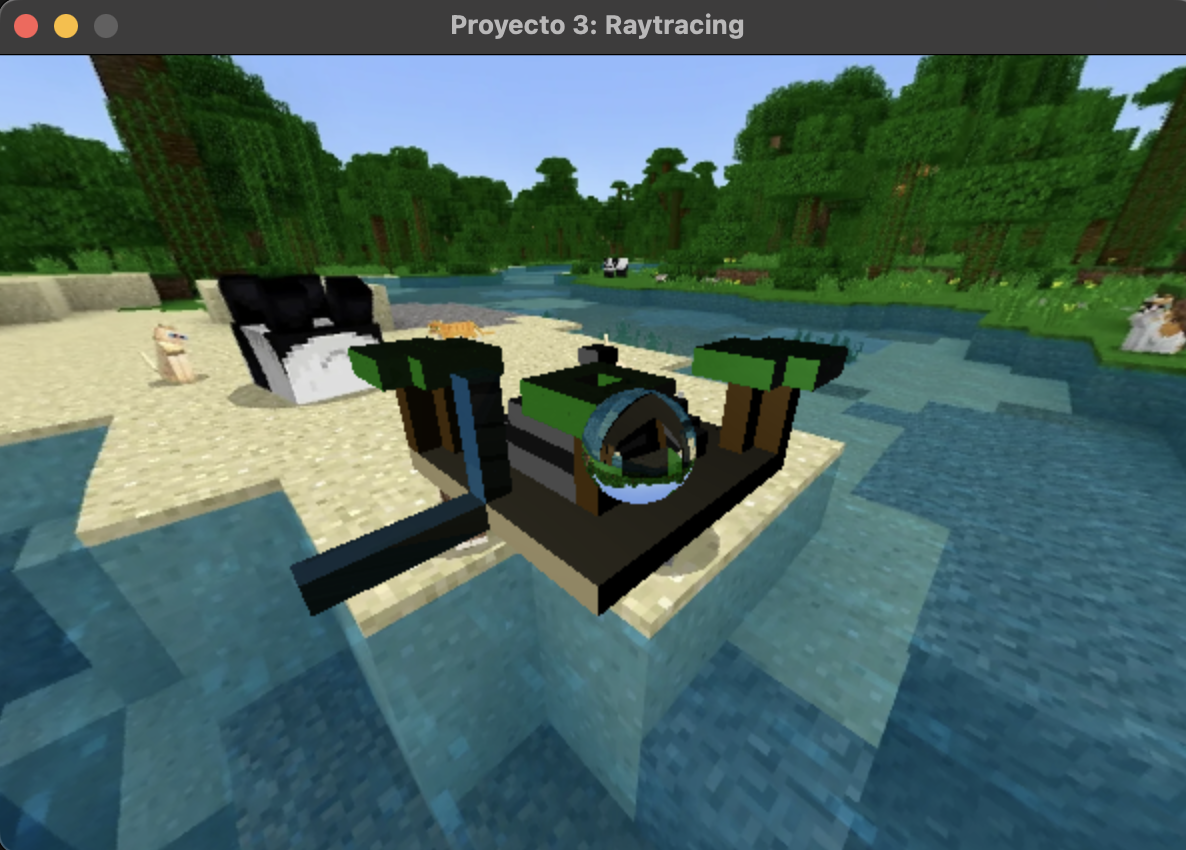
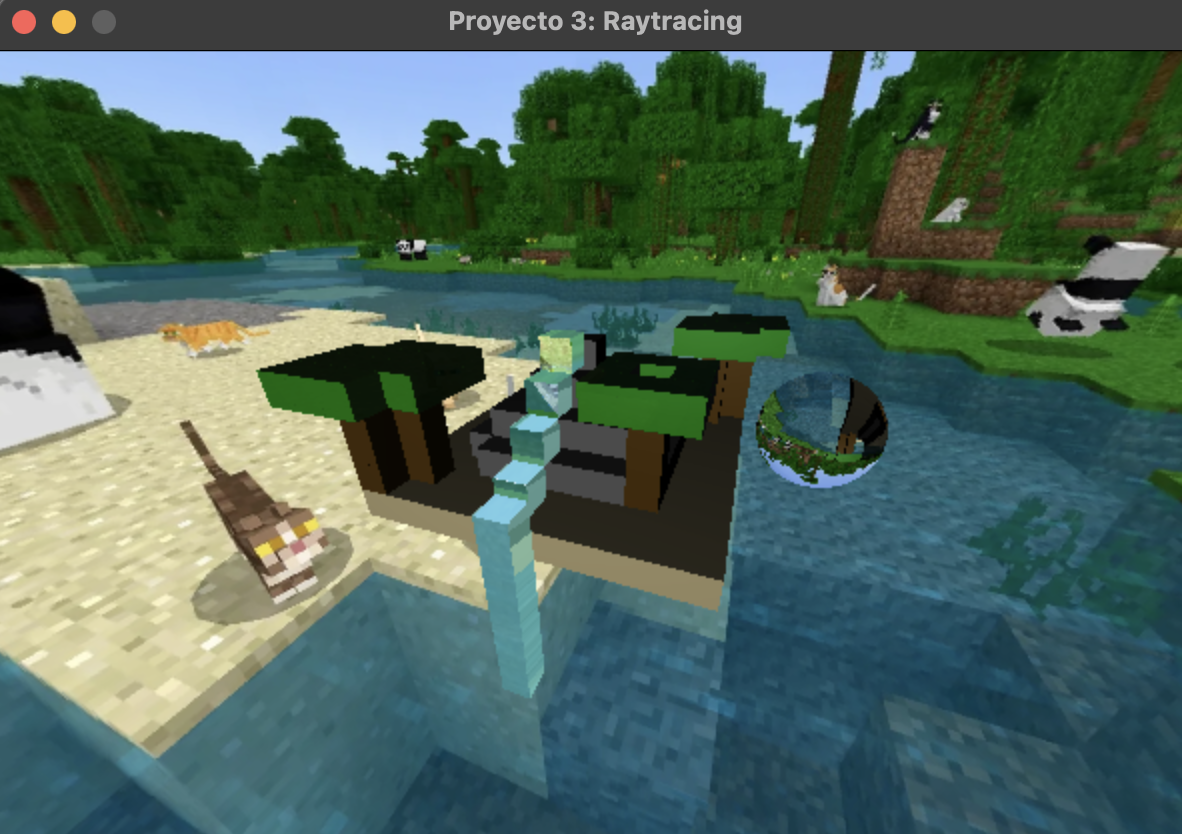
docs: update readme

diff --git a/src/main.cpp b/src/main.cpp
@@ -21,7 +21,7 @@
 
 SDL_Renderer* renderer = nullptr;
 Light light(glm::vec3(0.0f, 14.0f, -60.0f), 1.5f, Color(255, 255, 255));
-Camera camera(glm::vec3(-17.0f, 14.0f, -20.0f), glm::vec3(0.0f, 0.0f, 0.0f), 10.0f);
+Camera camera(glm::vec3(-2.0f, 14.0f, -30.0f), glm::vec3(0.0f, 0.0f, 0.0f), 10.0f);
 Skybox skybox("./textures/skybox.jpg");
 
 float castShadow(const glm::vec3& shadowOrig, const glm::vec3& lightDir, 

diff --git a/README.md b/README.md
@@ -10,13 +10,13 @@ Que los estudiantes pongan en práctica todos los conocimientos adquiridos sobre
 
 | Puntos | Descripción                     |
 | :-------- | :-------------------------------- |
-| `30 pts`      | Escena compleja |
-| `20 pts`      | Escena visualmente atractiva: skybox de minecraft y plataforma con 5 arboles, una montaña y una cascada, al lado una esfera de vidrio. |
+| `30 pts`      | Escena compleja: Mountain Landscape with Waterfall |
+| `20 pts`      | Escena visualmente atractiva: skybox de minecraft y plataforma con 4 arboles, una montaña y una cascada, al lado una esfera de vidrio. |
 | `20 pts`      | Por implementar rotación en su diorama y dejar que la camara se acerque y aleje |
 | `25 pts`      | 6 materiales diferentes implementados: stone, water, leaves, wood, sand, glass  |
 | `10 pts`      | Implementar refracción |
 | `5 pts`       | Implementar reflexión  |
-| `20 pts`      | Implementar Skybox |
+| `20 pts`      | Implementar 2 Skybox |
 
 **Total:** 130 pts
 
@@ -26,10 +26,6 @@ Que los estudiantes pongan en práctica todos los conocimientos adquiridos sobre
 
 ![img1](readme-media/scene1.png)
 
-### Escena de atras
-
-![img2](readme-media/scene2.png)
-
 ### Escena de lado derecho
 
 ![img3](readme-media/scene3.png)
@@ -37,3 +33,11 @@ Que los estudiantes pongan en práctica todos los conocimientos adquiridos sobre
 ### Escena de lado izquierdo
 
 ![img4](readme-media/scene4.png)
+
+### Escena de atras
+
+![img2](readme-media/scene2.png)
+
+## Usando otro skybox
+
+![img5](readme-media/scene5.png)
